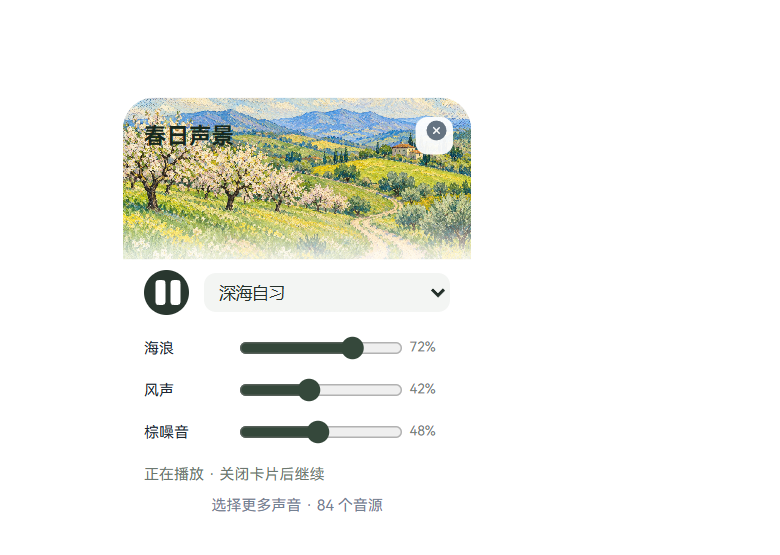
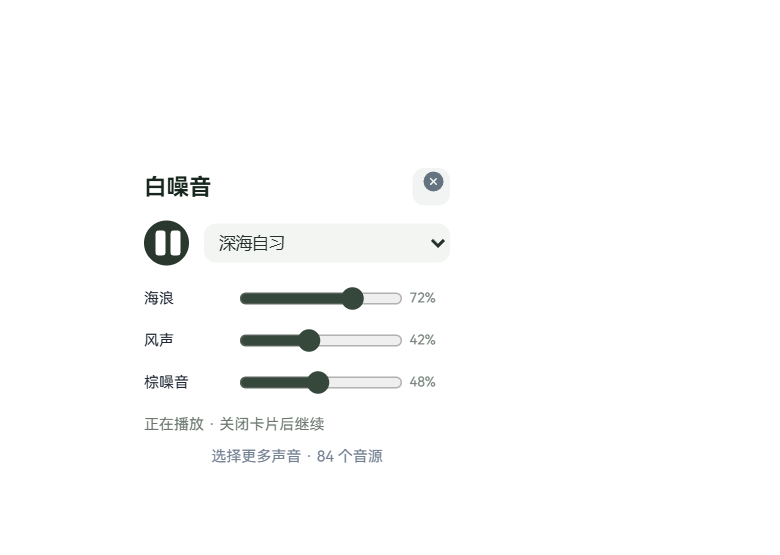
Unify painted frosted headers and simplify soundscape cards

Changed region(s): [[0.1538, 0.1532, 0.6154, 0.6432], [0.1846, 0.6739, 0.5538, 0.9189]]

diff --git a/renderer/workbar/tabs/study.js b/renderer/workbar/tabs/study.js
@@ -3,12 +3,12 @@
  const api=window.api,view=document.getElementById('view-study'),$=s=>view.querySelector(s);
  let state={connected:false},section='overview',taskSignature='',cardSignature='';
  view.innerHTML=`<div class="card study-connection"><div><h2>闪念上岸 × 斐墨</h2><p id="study-status" role="status">连接你的学习空间，计时、任务与进度会同步到这里。</p></div><div class="tool-actions"><button class="btn primary" id="study-connect">登录网站并连接</button><button class="btn" id="study-site">打开网站</button><button class="btn" id="study-disconnect" hidden>断开连接</button></div><div id="study-conflict" hidden><p>网站与本机修改了计时或任务。完成的学习记录仍会保留，请选择保留哪一端的修改。</p><div class="tool-actions"><button class="btn" data-resolve="cloud">采用网站修改</button><button class="btn" data-resolve="local">保留本机修改</button></div></div></div>
- <section id="study-soundscape" hidden></section><div id="study-connected" hidden><div class="subtabs"><button class="subtab active" data-study-view="overview">学习进度</button><button class="subtab" data-study-view="tasks">学习任务</button><button class="subtab" data-study-view="cards">知识卡片</button><button class="subtab" data-study-view="soundscape">白噪音</button></div>
+ <div id="study-connected" hidden><div class="subtabs"><button class="subtab active" data-study-view="overview">学习进度</button><button class="subtab" data-study-view="tasks">学习任务</button><button class="subtab" data-study-view="cards">知识卡片</button><button class="subtab" data-study-view="soundscape">白噪音</button></div>
  <section id="study-overview"><div class="card study-exam" id="study-exam"></div><div class="study-stats" id="study-stats"></div><div class="card"><h3>各模块刷题情况</h3><div id="study-modules"></div></div><div class="card"><h3>同步专注时间</h3><p class="muted">网站和斐墨共享同一轮计时，暂停、继续与结束均同步。已完成记录会进入斐墨的专注统计与网站学习记录。</p><div class="tool-actions"><button class="btn" id="study-open-focus">查看计时与热力图</button><button class="btn" id="study-stats-card">显示统计小卡片</button></div></div></section>
  <section id="study-tasks" hidden><input class="tool-search" id="study-task-search" placeholder="搜索学习任务…" aria-label="搜索学习任务"><div class="card"><h3>新建学习任务</h3><input class="tool-search" id="study-task-title" placeholder="例如：资料分析专项练习" aria-label="任务标题"><div class="study-create"><input id="study-task-date" type="date" aria-label="任务日期"><input id="study-task-minutes" type="number" min="1" max="720" value="25" aria-label="预计分钟"><span class="muted">分钟</span><button class="btn primary" id="study-task-add">添加任务</button></div><p class="tool-meta">创建和完成状态会同步到网站；未完成任务自动成为倒计时标签。</p></div><div id="study-task-list"></div></section>
- <section id="study-cards" hidden><div class="card"><h3>随手复习一张</h3><p class="muted">从你的知识库随机抽取知识卡、错题卡。阅读不改变 FSRS 复习进度。</p><div class="tool-actions"><button class="btn primary" id="study-next-card">随机抽一张</button><button class="btn" id="study-card-prompt">在助手旁展示</button></div></div><article class="card" id="study-card-content"></article><div class="card"><h3>主动学习提示</h3><label class="tool-opt"><input id="study-proactive" type="checkbox">偶尔展示知识卡片和新增刷题统计</label><label class="study-create"><span class="muted">间隔</span><select id="study-card-interval"><option value="15">15 分钟</option><option value="30">30 分钟</option><option value="60">60 分钟</option></select></label><p class="tool-meta">仅在白天使用电脑时出现；计时、问答和工作台打开期间保持安静。</p></div></section></div>`;
+ <section id="study-cards" hidden><div class="card"><h3>随手复习一张</h3><p class="muted">从你的知识库随机抽取知识卡、错题卡。阅读不改变 FSRS 复习进度。</p><div class="tool-actions"><button class="btn primary" id="study-next-card">随机抽一张</button><button class="btn" id="study-card-prompt">在助手旁展示</button></div></div><article class="card" id="study-card-content"></article><div class="card"><h3>主动学习提示</h3><label class="tool-opt"><input id="study-proactive" type="checkbox">偶尔展示知识卡片和新增刷题统计</label><label class="study-create"><span class="muted">间隔</span><select id="study-card-interval"><option value="15">15 分钟</option><option value="30">30 分钟</option><option value="60">60 分钟</option></select></label><p class="tool-meta">仅在白天使用电脑时出现；计时、问答和工作台打开期间保持安静。</p></div></section><section id="study-soundscape" hidden></section></div>`;
  $('#study-task-date').value=new Date().toLocaleDateString('en-CA');
- function show(name){section=['overview','tasks','cards','soundscape'].includes(name)?name:'overview';for(const key of ['overview','tasks','cards','soundscape'])$('#study-'+key).hidden=key!==section;view.querySelectorAll('[data-study-view]').forEach(b=>b.classList.toggle('active',b.dataset.studyView===section))}
+ function show(name){section=['overview','tasks','cards','soundscape'].includes(name)?name:'overview';for(const key of ['overview','tasks','cards','soundscape'])$('#study-'+key).hidden=key!==section;view.querySelectorAll('[data-study-view]').forEach(b=>b.classList.toggle('active',b.dataset.studyView===section));$('#study-connected').hidden=!state.connected&&section!=='soundscape';$('.study-connection').hidden=section==='soundscape';document.getElementById('page-title').textContent=section==='soundscape'?'白噪音':'闪念上岸';document.getElementById('page-subtitle').textContent=section==='soundscape'?'把世界调低一点，留一段安静给自己。':'学习进度、任务和知识卡片，随时掌握。'}
  view.querySelectorAll('[data-study-view]').forEach(b=>b.onclick=()=>show(b.dataset.studyView));
  async function run(action){try{return await action()}catch(e){UI.toast(e.message,true)}}
  function taskList(){
@@ -24,7 +24,7 @@
  }
  function cardContent(card){if(!card)return;const signature=JSON.stringify(card);if(signature===cardSignature)return;cardSignature=signature;const root=$('#study-card-content');root.replaceChildren();const h=document.createElement('h2');h.textContent=card.title;const meta=document.createElement('p');meta.className='tool-meta';meta.textContent=[card.category,...(card.tags||[]),card.source].filter(Boolean).join(' · ');root.append(h,meta,window.StudyRich.render(card.content))}
  function render(value){
-   state=value||{};$('#study-connect').textContent=state.authWindow?'返回登录窗口':'登录网站并连接';$('#study-connect').hidden=!!state.connected;$('#study-disconnect').hidden=!state.connected;$('#study-connected').hidden=!state.connected;$('#study-conflict').hidden=!state.conflict;
+   state=value||{};$('#study-connect').textContent=state.authWindow?'返回登录窗口':'登录网站并连接';$('#study-connect').hidden=!!state.connected;$('#study-disconnect').hidden=!state.connected;$('#study-connected').hidden=!state.connected&&section!=='soundscape';$('#study-conflict').hidden=!state.conflict;
    $('#study-status').textContent=!state.connected?state.error||(state.authWindow?'登录窗口已打开，请在窗口中登录网站账号。':'登录网站连接你的学习空间。'):`${state.identity.displayName} · ${state.syncing?'正在同步':state.error||'已连接'}${state.pending?` · ${state.pending} 项待同步`:''}${state.lastSuccessAt?' · '+new Date(state.lastSuccessAt).toLocaleTimeString('zh-CN'):''}`;
    const s=state.snapshot;if(!s)return;
    const p=s.practice?.today||{},total=s.practice?.all||{},today=new Date().toLocaleDateString('en-CA'),minutes=(s.sessions||[]).filter(x=>new Date(x.startedAtMs).toLocaleDateString('en-CA')===today).reduce((n,x)=>n+x.durationSeconds/60,0);
@@ -44,6 +44,6 @@
  api.getSettings().then(settings=>{$('#study-proactive').checked=settings.study?.proactive!==false;$('#study-card-interval').value=String(settings.study?.cardIntervalMin||30)});
  const savePreferences=()=>run(()=>api.setSettings({study:{proactive:$('#study-proactive').checked,cardIntervalMin:+$('#study-card-interval').value}}));$('#study-proactive').onchange=savePreferences;$('#study-card-interval').onchange=savePreferences;
  api.onStudyChanged?.(render);
- window.TABS.study={show,sync:()=>run(async()=>render(await api.studySync())),onShown:()=>api.studyState().then(render)};
+ window.TABS.study={show,sync:()=>run(async()=>render(await api.studySync())),onShown:()=>{show(section);return api.studyState().then(render)}};
  api.studyState?.().then(render);
 })();

diff --git a/renderer/workbar/workspace.css b/renderer/workbar/workspace.css
@@ -74,9 +74,7 @@ button:active:not(:disabled){transform:scale(.98)}
 .study-connection h2{font-size:17px;margin:0 0 8px}.study-connection p{font-size:12px;line-height:1.8;color:#758392}.study-stats{display:grid;grid-template-columns:1fr 1fr;gap:10px}.study-stats .card{display:flex;flex-direction:column;gap:8px;min-width:0}.study-stats strong{font-size:22px;color:#26323d}.study-stats span{font-size:11px;color:#8995a0}.study-exam h2{font-size:40px;margin:8px 0 14px;line-height:1.2}.study-exam small{font-size:14px;font-weight:450}.study-create{display:flex;align-items:center;gap:8px;flex-wrap:wrap;margin-top:12px}.study-create input,.study-create select{min-width:0;padding:9px;border:0;border-radius:8px;background:#edf2f6;color:#596c79;font:inherit;font-size:12px}.study-create input[type=number]{width:65px}.study-task strong{font-size:13px;line-height:1.7;overflow-wrap:anywhere}.study-module{display:flex;gap:8px;flex-wrap:wrap;padding:12px 0;font-size:12px}.study-module span{margin-left:auto;font-size:11px;color:#8995a0}.study-module>div{width:100%;height:4px;background:#edf2f4;border-radius:4px;overflow:hidden}.study-module i{display:block;height:100%;background:#9bb7ae}.study-rich{overflow-wrap:anywhere;font-size:13px;line-height:1.85}.study-rich table{display:block;overflow:auto;max-width:100%}.study-rich h1,.study-rich h2{font-size:16px}.study-rich pre{max-width:100%;overflow:auto}.study-rich .katex-display{max-width:100%;overflow:auto}#study-conflict{padding-top:12px}#study-status{overflow-wrap:anywhere}.focus-labels{max-height:160px;overflow:auto}
 .tool-tabs{margin-bottom:18px}.tool-tabs .subtab{flex:1;justify-content:center;gap:7px}.toolbox-intro h2,.palette-control h2,.note-card h2{font-size:15px;font-weight:700;line-height:1.6;margin:0 0 8px}.toolbox-intro p,.palette-control p{font-size:11px;color:#84909b;line-height:1.75;margin:0 0 14px}.tool-actions{display:flex;align-items:center;gap:8px;flex-wrap:wrap;margin:12px 0 0}.tool-actions>.btn{display:inline-flex;align-items:center;gap:5px}.tool-opt{display:flex;gap:8px;flex-wrap:wrap;align-items:center;font-size:12px;margin-top:18px;line-height:1.6}.tool-opt span{flex-basis:100%;padding-left:24px;color:#8b96a1;font-size:10px}.tool-opt input{accent-color:#637c76}.tool-search{display:block;width:100%;padding:12px 14px;margin:16px 0;background:#eaf0f5;border:0;border-radius:8px;font:inherit;font-size:12px;color:#344253}.tool-empty{padding:32px 20px;text-align:center;font-size:12px;color:#8c98a3;line-height:1.8}.tool-meta{font-size:10px;line-height:1.7;color:#8896a2;font-weight:400}.clip-content{font:inherit;font-size:12px;line-height:1.75;white-space:pre-wrap;overflow-wrap:anywhere;max-height:150px;overflow:auto;margin:12px 0;display:block;max-width:100%;border-radius:8px}.clip-card img.clip-content{height:140px;object-fit:contain;background:#f1f4f7;width:100%}.clip-card,.note-card{margin-bottom:12px}.note-preview{max-height:190px;overflow:auto;font-size:12px;line-height:1.7;margin-top:14px;overflow-wrap:anywhere}.note-preview h1,.note-preview h2,.note-preview h3{font-size:14px}.note-preview pre{background:#f1f4f7;padding:10px;border-radius:8px;overflow:auto;font-family:inherit}.note-preview code{font-family:inherit}.note-preview blockquote{margin-left:0;padding-left:12px;border-left:2px solid #cad5df;color:#758392}#tb-note-editor{margin-top:16px}#tb-note-title,#tb-note-text{display:block;width:100%;padding:12px;background:#f0f4f7;border:0;border-radius:8px;font:inherit;font-size:12px;color:#27323d}#tb-note-text{min-height:165px;resize:vertical;line-height:1.75;margin-top:10px}.palette-inputs{display:flex;align-items:center;gap:8px;flex-wrap:wrap;margin:18px 0}.palette-inputs input[type=color]{width:34px;height:34px;padding:3px;border:0;border-radius:8px;background:#edf2f6}.palette-inputs input[type=text],#tb-hex{width:94px;background:#edf2f6;border:0;border-radius:8px;padding:9px;font-size:12px}.palette-inputs select{flex:1;min-width:100px;padding:9px;border:0;border-radius:8px;background:#edf2f6;color:#596c79;font:inherit;font-size:12px}#tb-palette-preview h3{font-size:12px;color:#596b77;margin:0 0 12px}.palette-swatches{display:flex;overflow:hidden;border-radius:12px;margin-bottom:12px}.palette-swatches button{flex:1;min-width:0;height:104px;padding:8px 0;border:0;font:inherit;font-size:9px;display:flex;align-items:flex-end;justify-content:center}.palette-grid{display:grid;grid-template-columns:1fr 1fr;gap:12px}.palette-mini{background:#fff;border-radius:12px;padding:12px;min-width:0}.palette-choice{border:0;background:transparent;padding:0;text-align:left;width:100%;font:inherit;font-size:11px;color:#526573}.mini-swatches{display:flex;overflow:hidden;border-radius:8px;margin-bottom:10px;height:45px}.mini-swatches i{flex:1}.tool-section-title{font-size:12px;font-weight:650;color:#748591;margin:24px 0 12px}.tool-error{font-size:12px;color:#9b4b4b;background:#faf0ed;padding:12px 14px;border-radius:8px;margin-bottom:16px}
 
-.noise-library-hero { position:relative;isolation:isolate;overflow:hidden;background:#fff;padding:116px 22px 20px; }
-.noise-library-hero::before { content:"";position:absolute;z-index:-1;inset:0 0 auto;height:140px;background:url('../../assets/soundscape/spring-halftone.png') center 45%/cover; }
-.noise-library-hero::after { content:"";position:absolute;z-index:-1;top:104px;left:-16px;right:-16px;height:62px;background:linear-gradient(transparent,#fff 72%);filter:blur(10px); }
+.noise-library-hero { background:#fff;padding:20px; }
 .noise-library-hero p { color:#66756c; }
 .noise-library-controls { display:flex;align-items:center;gap:12px;flex-wrap:wrap; }
 .noise-library-controls select { border:0;background:#f1f4f1;border-radius:8px;padding:9px 12px;color:#26342b; }
@@ -91,3 +89,15 @@ button:active:not(:disabled){transform:scale(.98)}
 .noise-sound span { min-width:0;overflow:hidden;text-overflow:ellipsis;white-space:nowrap; }
 .noise-sound.selected { background:#e7eee8;color:#1e3326; }
 @media(max-width:440px){.noise-library-grid{grid-template-columns:repeat(2,minmax(0,1fr))}}
+
+/* Shared by every module: painted header, frosted white veil, transparent lower edge. */
+#workspace-header { flex:none;display:flex;flex-direction:column;position:relative;isolation:isolate;overflow:hidden; }
+#workspace-header::before,#workspace-header::after { content:"";position:absolute;inset:0;z-index:-1;pointer-events:none; }
+#workspace-header::before { background:url('../../assets/soundscape/spring-halftone.png') center 40%/cover no-repeat;opacity:.72;mask-image:linear-gradient(to bottom,#000 0%,rgba(0,0,0,.6) 40%,rgba(0,0,0,.15) 76%,transparent 100%); }
+#workspace-header::after { background:linear-gradient(to bottom,rgba(255,255,255,.66) 0%,rgba(255,255,255,.6) 40%,rgba(255,255,255,.4) 76%,transparent 100%);backdrop-filter:blur(1.2px) saturate(.85);-webkit-backdrop-filter:blur(1.2px) saturate(.85);mask-image:linear-gradient(to bottom,#000 0%,rgba(0,0,0,.75) 40%,rgba(0,0,0,.2) 76%,transparent 100%); }
+#workspace-header #tabs { background:rgba(239,243,246,.84); }
+#workspace-header #page-title { color:#19232c; }
+#workspace-header #page-subtitle,#workspace-header #brand small { color:#63707b; }
+#workspace-header .next-event { color:#65727d; }
+.label,.focus-label { max-width:100%;overflow:hidden;text-overflow:ellipsis; }
+@media(prefers-reduced-transparency:reduce),(prefers-contrast:more){#workspace-header::before,#workspace-header::after{display:none}}

diff --git a/renderer/quick/quick.css b/renderer/quick/quick.css
@@ -115,11 +115,10 @@ button:focus-visible, input:focus-visible { outline: 2px solid #242e3b; outline-
 
 /* Same 21px sheet corner as every quick editor; the outer window stays clear. */
 #editor.noise-editor { padding:0;background:#fff;overflow:hidden; }
-.noise-editor .editor-head { position:absolute;z-index:2;top:13px;left:14px;right:12px;margin:0;color:#17271e; }
-.noise-editor .editor-head button { background:#fffffff0; }
-.noise-hero { height:108px;position:relative;background:url('../../assets/soundscape/spring-halftone.png') center 45%/cover; }
-.noise-hero::after { content:"";position:absolute;left:-15px;right:-15px;bottom:-13px;height:44px;background:linear-gradient(transparent,#fff 76%);filter:blur(8px); }
-.noise-controls { position:relative;padding:7px 14px 11px;background:#fff; }
+.noise-editor .editor-head { position:relative;margin:0;padding:14px 14px 10px;color:#17271e; }
+.noise-editor .editor-head button { background:#f1f4f2; }
+.noise-controls { padding:0 14px 11px;background:#fff; }
+.label { max-width:100%;overflow:hidden;text-overflow:ellipsis; }
 .noise-play-row { display:flex;align-items:center;gap:10px;margin-bottom:8px; }
 #noise-play { width:30px;height:30px;flex:none;border:0;border-radius:50%;display:grid;place-items:center;color:#fff;background:#29372f; }
 #noise-preset { width:100%;min-width:0;border:0;border-radius:8px;background:#f3f5f3;padding:6px;color:#24302a;font-size:11px; }

diff --git a/renderer/quick/quick.html b/renderer/quick/quick.html
@@ -28,7 +28,7 @@
       <button id="save-note" class="primary">保存速记</button>
       <button id="open-notes" class="note-link">查看全部速记</button>
     </div>
-    <div id="noise-form" class="hidden"><div class="noise-hero" aria-hidden="true"></div><div class="noise-controls"><div class="noise-play-row"><button id="noise-play" aria-label="播放白噪音"></button><select id="noise-preset" aria-label="预设混音"></select></div><div id="noise-tracks"></div><p id="noise-status" role="status"></p><button id="noise-library" class="note-link">选择更多声音 · 84 个音源</button></div></div>
+    <div id="noise-form" class="hidden"><div class="noise-controls"><div class="noise-play-row"><button id="noise-play" aria-label="播放白噪音"></button><select id="noise-preset" aria-label="预设混音"></select></div><div id="noise-tracks"></div><p id="noise-status" role="status"></p><button id="noise-library" class="note-link">选择更多声音 · 84 个音源</button></div></div>
   </section>
   <form id="quick-chat" class="hidden"><input id="quick-input" maxlength="1000" autocomplete="off" placeholder="问斐墨…" aria-label="快捷提问"/><button id="quick-send" type="submit" title="发送" aria-label="发送"><span data-icon="Send" data-size="20"></span></button></form>
   <div id="quick-toast" class="hidden" role="alert"></div>

diff --git a/renderer/speech/study-cards.css b/renderer/speech/study-cards.css
@@ -1,1 +1,3 @@
 .prompt-knowledge{max-height:156px;overflow:auto;overflow-wrap:anywhere;font-size:12px;line-height:1.75;margin:10px 0}.prompt-knowledge h1,.prompt-knowledge h2,.prompt-knowledge h3{font-size:13px;margin:8px 0}.prompt-knowledge table{display:block;max-width:100%;overflow:auto}.prompt-knowledge pre,.prompt-knowledge .katex-display{max-width:100%;overflow:auto}.prompt-metrics{display:flex;gap:16px;margin:12px 0}.prompt-metrics>div{display:flex;flex-direction:column;gap:5px}.prompt-metrics strong{font-size:18px;color:#293442}.prompt-metrics small{font-size:10px;color:#8895a1}
+
+#prompt-card header strong,.prompt-inline header strong{display:-webkit-box;-webkit-line-clamp:3;-webkit-box-orient:vertical;overflow:hidden}

diff --git a/renderer/quick/quick.js b/renderer/quick/quick.js
@@ -204,7 +204,7 @@
     $('note-form').classList.toggle('hidden', panel !== 'note');
     $('noise-form').classList.toggle('hidden',panel!=='noise');editor.classList.toggle('noise-editor',panel==='noise');
     if(panel==='noise')window.FeimoNoise.refresh();
-    $('editor-title').textContent = panel === 'schedule' ? '记下新日程' : panel === 'note' ? '留住一个想法' : panel==='noise'?'春日声景':'陪你专注一会儿';
+    $('editor-title').textContent = panel === 'schedule' ? '记下新日程' : panel === 'note' ? '留住一个想法' : panel==='noise'?'白噪音':'陪你专注一会儿';
     api.panel(panel);
     layout();
   }

diff --git a/renderer/workbar/workbar.html b/renderer/workbar/workbar.html
@@ -10,6 +10,7 @@
 </head>
 <body>
   <div id="panel">
+    <div id="workspace-header">
     <!-- 标题栏（可拖动） -->
     <div id="titlebar">
       <div class="drag-region"></div>
@@ -40,6 +41,8 @@
       <button class="tab" data-tab="focus"><span class="tab-ico" data-icon="Timer" data-size="16"></span>倒计时</button>
     </nav>
     <div id="page-header"><div><h1 id="page-title">问答</h1><p id="page-subtitle">把眼前的问题，交给斐墨。</p></div><button class="btn small" id="page-action">回到最新</button></div>
+
+    </div>
 
     <!-- 内容区 -->
     <main id="content">

diff --git a/README.md b/README.md
@@ -73,9 +73,11 @@
 - **任务与知识**：可创建、完成网站任务，未完成任务成为倒计时标签；知识卡、刷题统计与考试计划约每 30 秒刷新。主动知识卡默认每 30 分钟，仅在白天使用电脑且没有问答、计时或打开工作台时显示。
 - **白噪音**：无需登录即可使用在线音源；混音和音量保存在本机，播放状态不跨设备同步，避免两端同时自动播放。重启后保持暂停。
 
-![白噪音快捷卡片：原创春日油画与像素半调，上下高斯模糊过渡](docs/images/white-noise-card.png)
+![白噪音快捷卡片：纯白背景、独立音量与预设混音](docs/images/white-noise-card.png)
 
-白噪音上半部分为原创梵高风格春日田园插画，下半部分纯白；沿用快捷卡片的 21 px 圆角，不添加外部阴影。音源目录共享自 Moodist，代码为 MIT，音频为 Pixabay / CC0，详见[素材说明](assets/soundscape/MOODIST-LICENSE.txt)。
+所有工作台模块共用春日田园油画与像素半调 Header：半透明白色毛玻璃遮罩增强文字可读性，背景与遮罩向下渐隐。白噪音页面与快捷卡片采用纯白背景；快捷卡片沿用 21 px 圆角，不添加外部阴影。音源目录共享自 Moodist，代码为 MIT，音频为 Pixabay / CC0，详见[素材说明](assets/soundscape/MOODIST-LICENSE.txt)。
+
+![工作台共用渐隐油画 Header 与纯白声音资料库](docs/images/workspace-header.png)
 
 ## 快捷键
 

diff --git a/assets/soundscape/ARTWORK.md b/assets/soundscape/ARTWORK.md
@@ -1,7 +1,7 @@
-# 春日声景背景
+# 工作台春日 Header 背景
 
 文件：`spring-halftone.png`。由内置 image_gen 生成，原创插画，并非梵高某幅作品的复制品。
 
 最终提示词：Spring countryside inspired by Vincent van Gogh's oil paintings; rolling green fields, blossoming orchard, rural path and blue hills; short impasto strokes with pixel halftone dot texture; airy cream, sage green and buttery yellow; landscape fills the frame; no lettering, interface, borders, people or logos.
 
-Gaussian blur to white is implemented by the UI's CSS, not baked into the illustration. Sound catalogue is shared with 闪念上岸 and Moodist; its attribution and audio licence are in `MOODIST-LICENSE.txt`.
+插画用于所有工作台模块共用的 Header。白色毛玻璃遮罩、高斯模糊与从上到下的透明渐变由 CSS 实现，不烘焙在插画中；白噪音内容卡片保持纯白。声音目录共享自闪念上岸与 Moodist，署名和音频许可见 `MOODIST-LICENSE.txt`。

diff --git a/RELEASE_NOTES.md b/RELEASE_NOTES.md
@@ -1,5 +1,12 @@
 # Release notes
 
+## 1.2.2
+
+- 问答、处理、会话、用量、日程、倒计时、设置、快捷工具与学习空间共用像素半调油画 Header，白色毛玻璃遮罩与画面向下渐隐。
+- 移除白噪音页面和快捷卡片内部的油画背景，使用简洁纯白主体，不添加外部阴影。
+- 调整学习空间子页签顺序，声音资料库不会遮挡导航；长任务标签和知识卡片标题限制展示高度，正文仍完整可读。
+- 保留已连接的学习账号、API 设置、双向计时与独立白噪音播放。
+
 ## 1.2.1
 
 - 修复学习账号登录窗口唤起不可靠：显式显示、与工作台同屏居中及置顶；重复点击会恢复登录窗口，关闭后返回学习页。
